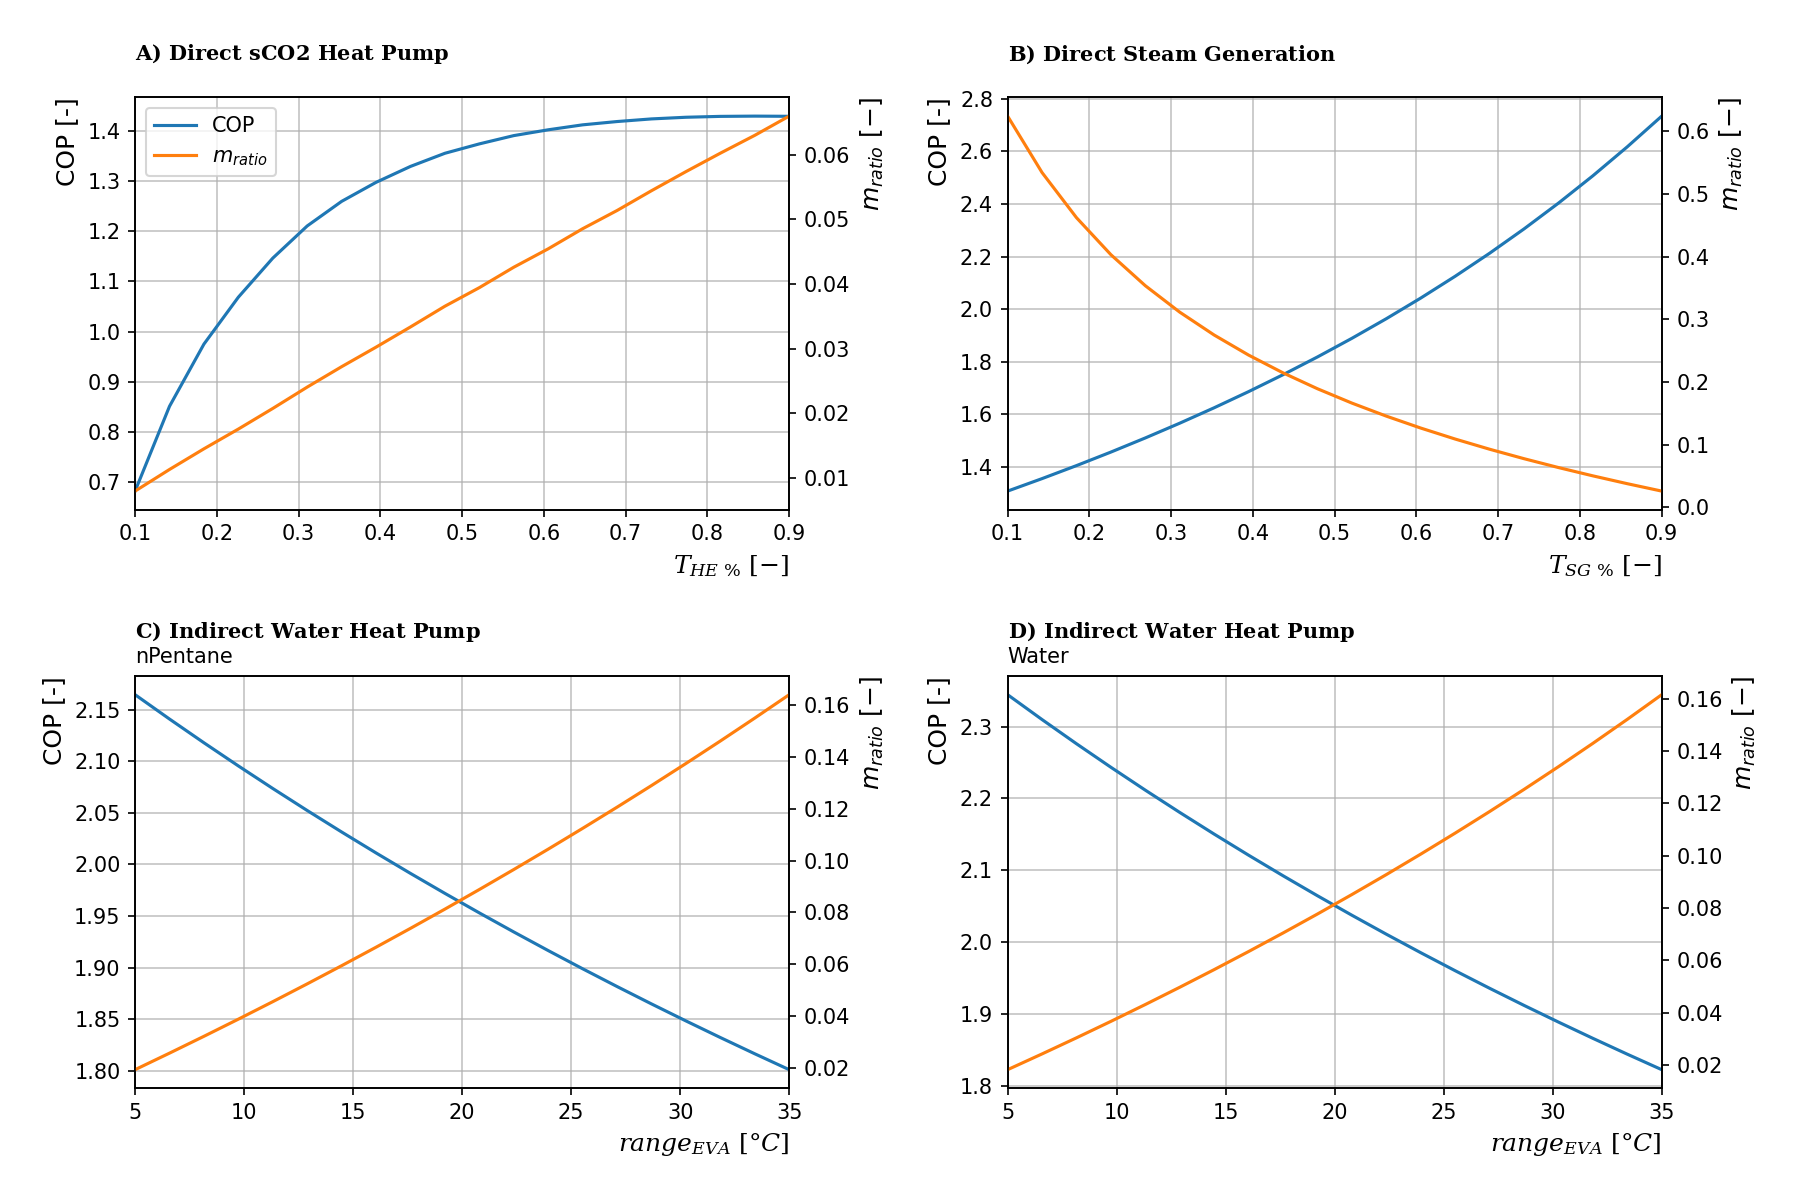
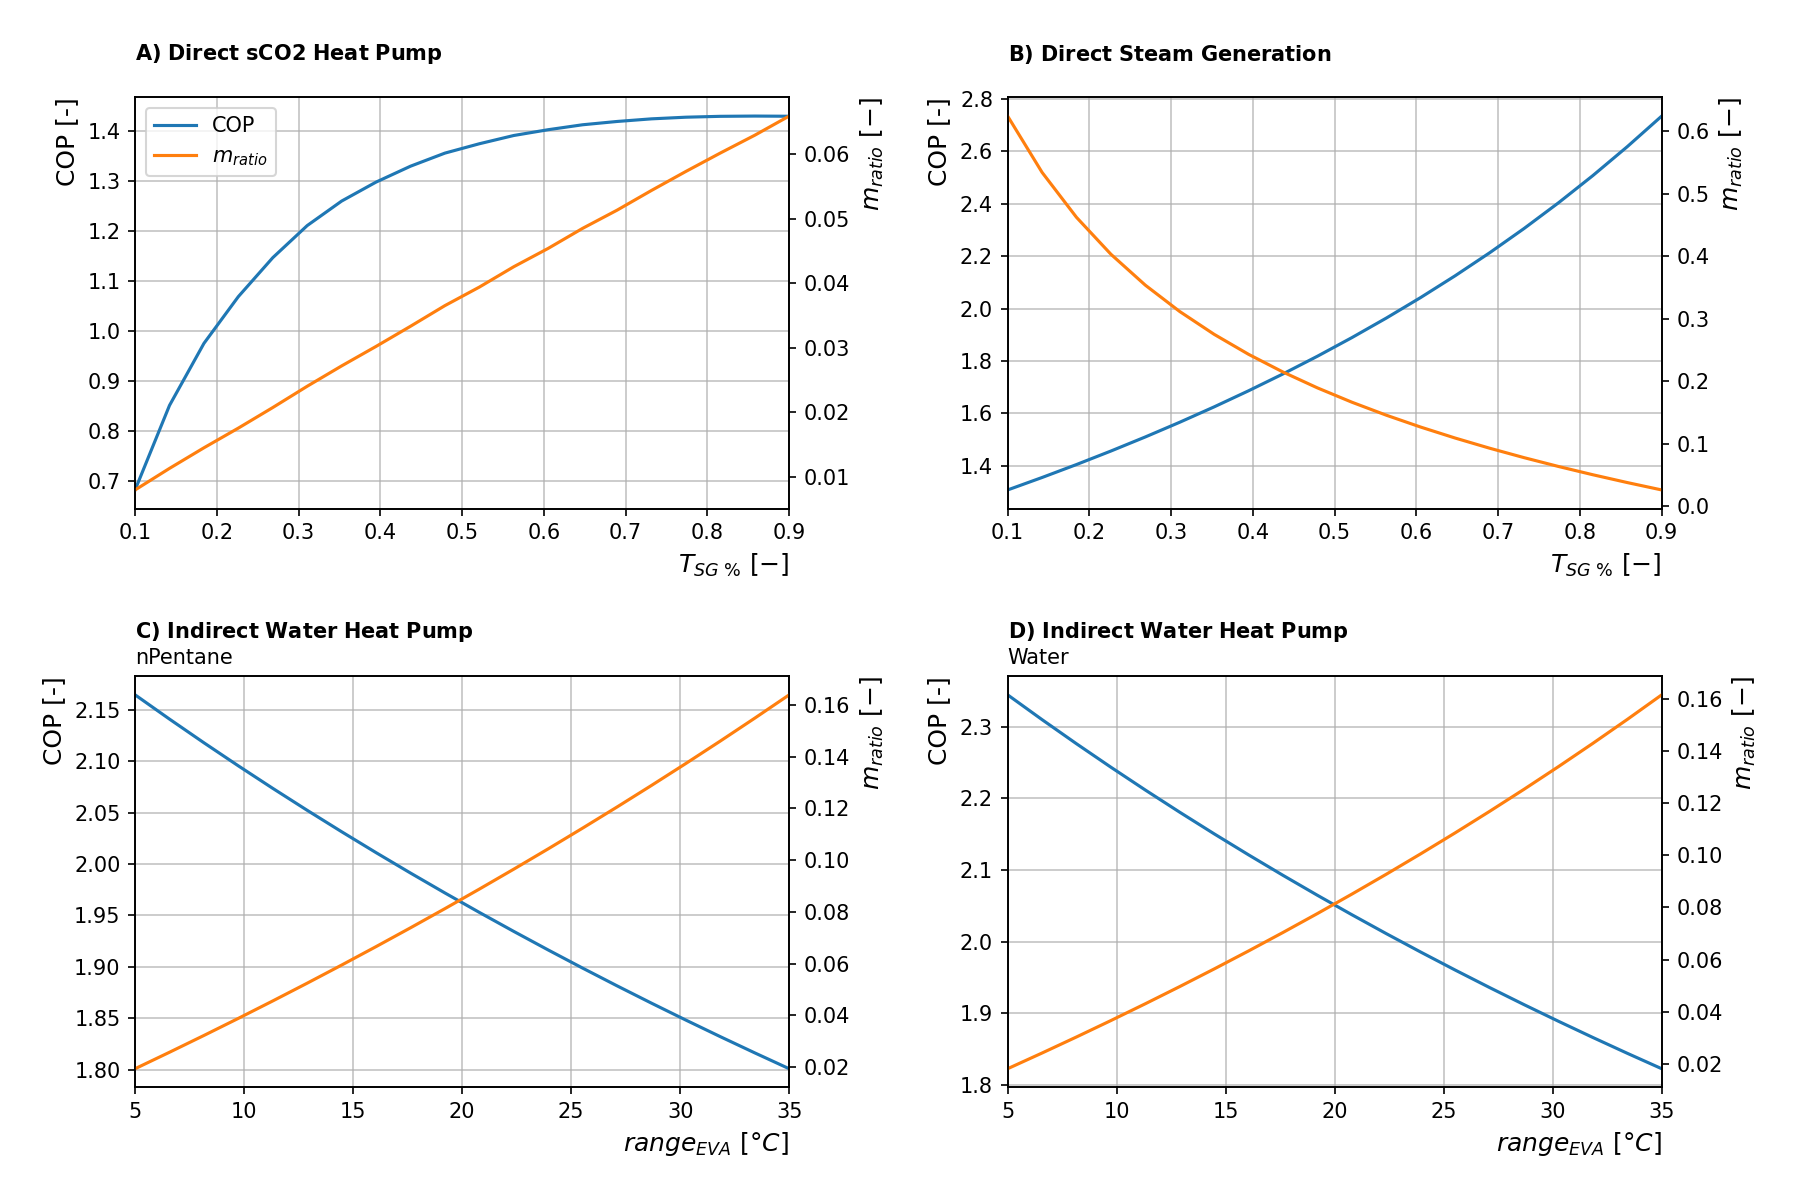
BHE model Validation implemented

diff --git a/main_code/simplified_BHE/simplified_BHE.py b/main_code/simplified_BHE/simplified_BHE.py
@@ -383,7 +383,7 @@ class SimplifiedBHE:
 
         return c0, dp_loss
 
-    def __evaluate_pressure_losses(self, input_point, output_point, C0=None, dz=None):
+    def __evaluate_pressure_losses(self, input_point, output_point, c0=None, dz=None):
 
         m_dot = input_point.m_dot
         g = 9.81
@@ -392,21 +392,22 @@ class SimplifiedBHE:
             dz = abs(self.dz_well)
 
         if input_point.get_variable("P") > output_point.get_variable("P"):
-
             d = self.d_prod
 
         else:
-
             d = self.d_inj
 
         if d is not None:
 
-            f = self.__calculate_friction_factor(d)
+            mu = (input_point.get_variable("mu") + output_point.get_variable("mu")) / 2
+            re = 4 * m_dot / (np.pi * d * mu / 1e6)
 
-            if C0 is not None:
+            f = self.__calculate_friction_factor(d, re)
+
+            if c0 is not None:
 
                 rho0 = max(input_point.get_variable("rho"), output_point.get_variable("rho"))
-                l_mod = (np.exp(C0 / 1e6 * g * dz) - 1) / (g * C0 / 1e6)
+                l_mod = (np.exp(c0 / 1e6 * g * dz) - 1) / (g * c0 / 1e6)
                 dp = 8 * (f * m_dot ** 2) / (d ** 5 * np.pi ** 2 * rho0) * l_mod
 
             else:
@@ -421,13 +422,12 @@ class SimplifiedBHE:
         return dp / 1e6
 
     @staticmethod
-    def __calculate_friction_factor(d):
+    def __calculate_friction_factor(d, re):
 
         if d is not None:
 
             rough = 55 * 1e-6       # [m] surface roughness
             rel_rough = rough / d
-            re = 1e8
 
             A = (2.457 * np.log(1. / ((7. / re) ** 0.9 + 0.27 * rel_rough))) ** 16
             B = (37530. / re) ** 16

diff --git a/calculation/2022-11-21 - Model Validation/2022-11-10 - Well Model Validation.py b/calculation/2022-11-21 - Model Validation/2022-11-10 - Well Model Validation.py
@@ -151,7 +151,7 @@ dp_turb, dh_turb, W_turb, Q_res, bhe_out = evaluate_turbine_power(CO2_input, T_a
 
 depth = 2500  # [m]
 T_grad = 35  # [°C/km]
-m_dot_list = np.linspace(1, 200, 100)
+m_dot_list = np.linspace(40, 180, 100)
 results = dict()
 
 keys = ["no losses", "res losses", "all losses", "discrete losses"]
@@ -221,11 +221,11 @@ pbar.close()
 x_list = "m_dot"
 x_label = r'$m_{dot}\ [kg/s]$'
 
-# y_list = "dp_list"
-# y_label = r'$dP_{turb}\ [MPa]$'
+y_list = "dp_list"
+y_label = r'$dP_{turb}\ [MPa]$'
 
-y_list = "dh_list"
-y_label = r'$dh_{turb}\ [kJ/kg]$'
+# y_list = "dh_list"
+# y_label = r'$dh_{turb}\ [kJ/kg]$'
 
 fig, (ax_1) = plt.subplots(1, 1, dpi=200)
 fig.set_size_inches(10, 5)
@@ -263,10 +263,10 @@ ax_1.set_ylabel(
 )
 
 ax_1.set_ylim(bottom=0)
-ax_1.set_xlim(left=0, right=200)
+ax_1.set_xlim(left=40, right=180)
 
 
-ax_1.xaxis.set_major_locator(MultipleLocator(25))
+ax_1.xaxis.set_major_locator(MultipleLocator(20))
 ax_1.xaxis.set_minor_locator(MultipleLocator(5))
 ax_1.xaxis.set_major_formatter(ticker.FormatStrFormatter('%0.0f'))
 

diff --git a/main_code/simplified_BHE/heating_sections/subclasses/EGS_heating_section.py b/main_code/simplified_BHE/heating_sections/subclasses/EGS_heating_section.py
@@ -6,7 +6,7 @@ from scipy.optimize import Bounds
 
 class EGSHeatingSection(AbstractHeatingSection):
 
-    def __init__(self, main_BHE, S_res=1.14e-12, k_res=5e-14):
+    def __init__(self, main_BHE, S_res=1.18e-12, k_res=5e-14):
 
         """
 
@@ -22,7 +22,9 @@ class EGSHeatingSection(AbstractHeatingSection):
 
         self.S_res = S_res              # [m/s]     Average Specific Kinematic Viscosity
         self.k_res = k_res              # [m^2]     Horizontal Permeability
-        self.R_res = S_res / k_res      # [1/(m*s)] Average Specific Inverse Mobility
+        # self.R_res = S_res / k_res      # [1/(m*s)] Average Specific Inverse Mobility
+
+        self.R_res = 25
 
         self.dp_res = 0.
 

diff --git a/calculation/2022-10-04 - HTHP/3 - COP and m_ratio plot generation.py b/calculation/2022-10-04 - HTHP/3 - COP and m_ratio plot generation.py
@@ -111,7 +111,7 @@ result_dict.update({
         "x": t_sg_perc_list,
         "COP": COP_list,
         "m_ratio": m_ratio_list,
-        "x_label": r'$T_{{SG\ \%}}\ [-]$',
+        "x_label": r'$T_{{HE\ \%}}\ [-]$',
         "x_lim": t_perc_lim,
 
     }
